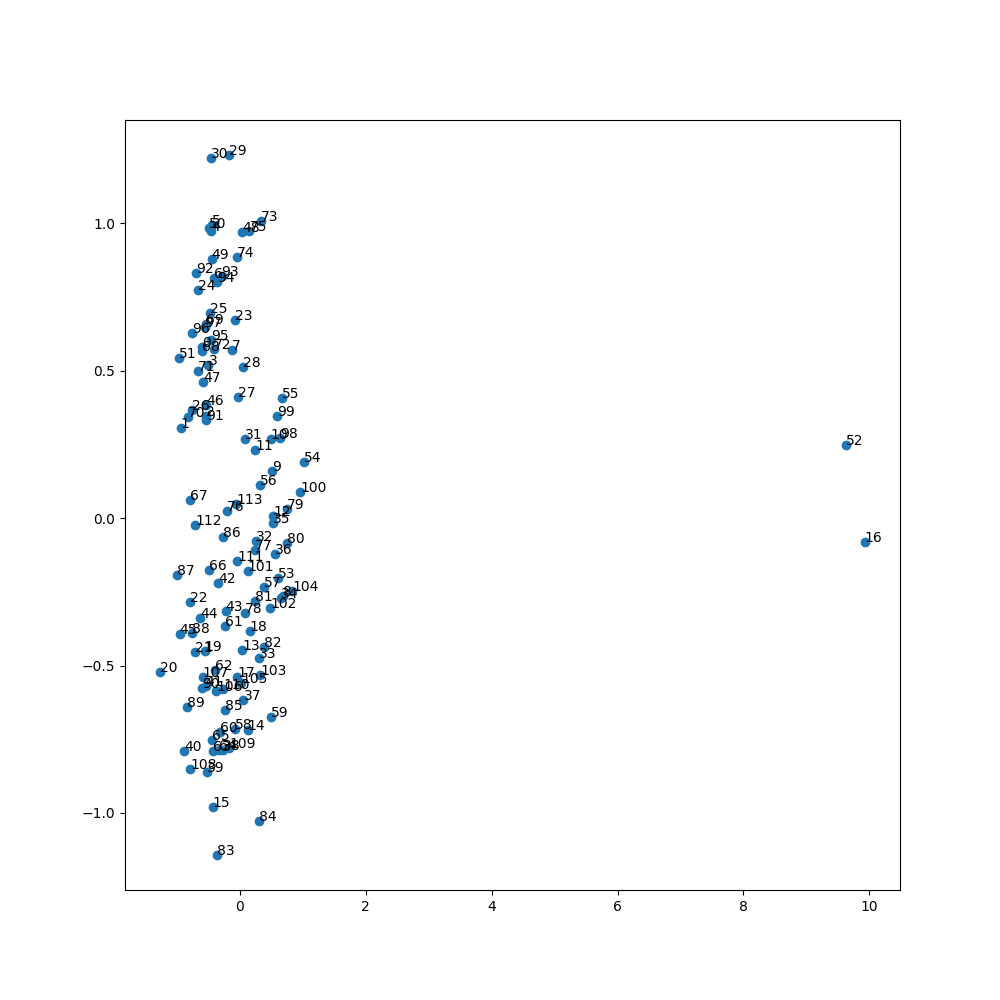
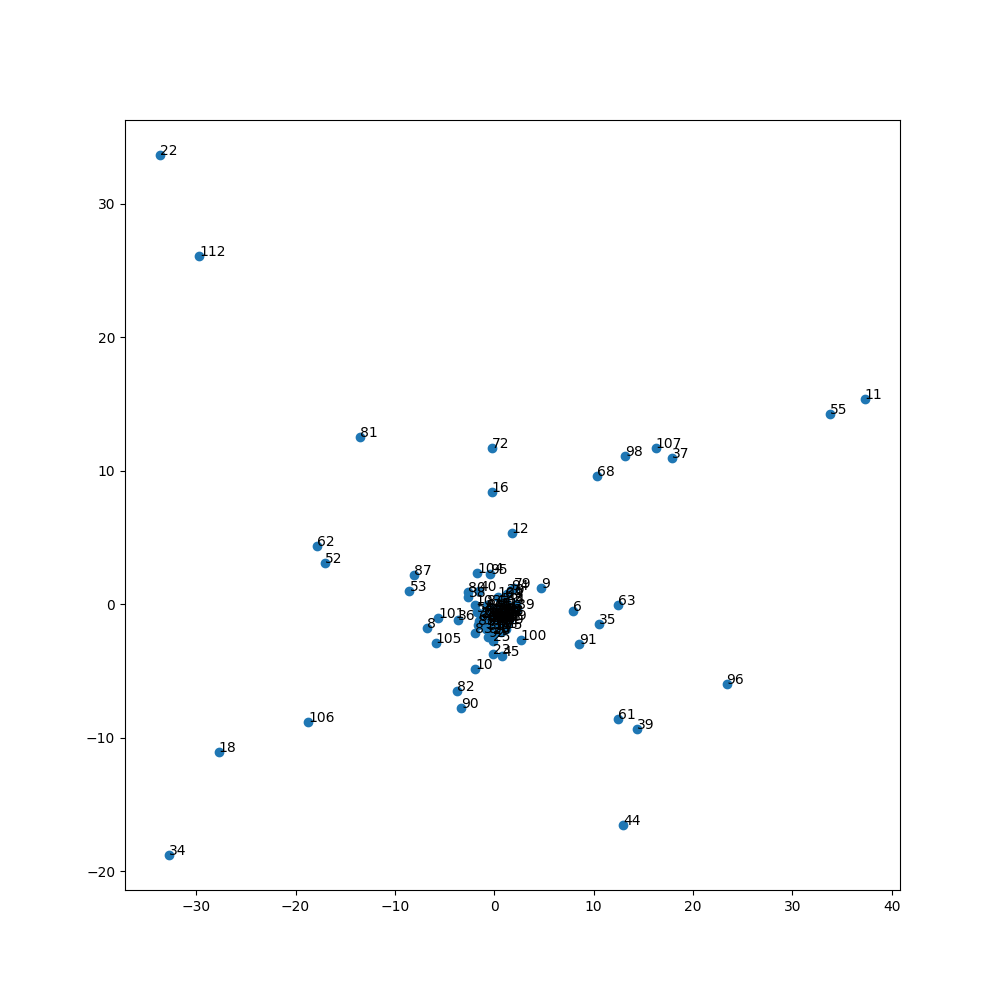
Update

diff --git a/train_in_sphere_modular_addition.py b/train_in_sphere_modular_addition.py
@@ -1,14 +1,29 @@
 import torch as t
 from torch.nn.utils import parameters_to_vector, vector_to_parameters
 from helpers import reshape_submodule_param_vector
-from mlp_modular import MLP, test_model, get_train_test_loaders, plot_embeddings, plot_embeddings_chunks
+from mlp_modular import (
+    MLP,
+    test_model,
+    get_train_test_loaders,
+    plot_embeddings,
+    plot_embeddings_chunks,
+)
 import torch as t
 from torch.autograd import grad
 from scipy.sparse.linalg import LinearOperator, eigsh
 import numpy as np
 from torch.nn.utils import parameters_to_vector, vector_to_parameters
 
-def hessian_eig(model, loss_fn, train_data_loader, num_batches=30, device="cuda", n_top_vectors=200, param_extract_fn=None):
+
+def hessian_eig(
+    model,
+    loss_fn,
+    train_data_loader,
+    num_batches=30,
+    device="cuda",
+    n_top_vectors=200,
+    param_extract_fn=None,
+):
     param_extract_fn = param_extract_fn or (lambda x: x.parameters())
     num_params = sum(p.numel() for p in param_extract_fn(model))
     subset_a, subset_b, subset_res = [], [], []
@@ -25,7 +40,7 @@ def hessian_eig(model, loss_fn, train_data_loader, num_batches=30, device="cuda"
     def compute_loss():
         output = model(subset_a, subset_b)
         return loss_fn(output, subset_res)
-    
+
     def hessian_vector_product(vector):
         model.zero_grad()
         grad_params = grad(compute_loss(), param_extract_fn(model), create_graph=True)
@@ -33,18 +48,20 @@ def hessian_eig(model, loss_fn, train_data_loader, num_batches=30, device="cuda"
         grad_vector_product = t.sum(flat_grad * vector)
         hvp = grad(grad_vector_product, param_extract_fn(model), retain_graph=True)
         return t.cat([g.contiguous().view(-1) for g in hvp])
-    
+
     def matvec(v):
         v_tensor = t.tensor(v, dtype=t.float32, device=device)
         return hessian_vector_product(v_tensor).cpu().detach().numpy()
-    
+
     linear_operator = LinearOperator((num_params, num_params), matvec=matvec)
-    eigenvalues, eigenvectors = eigsh(linear_operator, k=n_top_vectors, tol=0.1, which='LM', return_eigenvectors=True)
+    eigenvalues, eigenvectors = eigsh(
+        linear_operator, k=n_top_vectors, tol=0.1, which="LM", return_eigenvectors=True
+    )
     tot = 0
     thresholds = [0.1, 1, 2, 10]
     for e in eigenvalues:
         print("{:.2f}".format(e))
-    for threshold in thresholds:    
+    for threshold in thresholds:
         for e in eigenvalues:
             if e > threshold:
                 tot += 1
@@ -53,10 +70,20 @@ def hessian_eig(model, loss_fn, train_data_loader, num_batches=30, device="cuda"
     eigenvectors = np.transpose(eigenvectors)
     return tot, eigenvalues, eigenvectors
 
+
 def get_module_parameters(model):
     return model.parameters()
 
-def sphere_localized_loss_adjustment(model, top_eigenvectors, offset, radius = 1, lambda_sphere = 10, lambda_orth = .1, device='cuda'):
+
+def sphere_localized_loss_adjustment(
+    model,
+    top_eigenvectors,
+    offset,
+    radius=1,
+    lambda_sphere=10,
+    lambda_orth=0.1,
+    device="cuda",
+):
     """
     model: mlp
     top_eigenvectors: top eigenvectors of the Hessian on the mixed data problem [n_eigenvectors x n_params] (arranged in small-to-large order)
@@ -67,29 +94,51 @@ def sphere_localized_loss_adjustment(model, top_eigenvectors, offset, radius = 1
     """
     top_eigenvectors = t.tensor(top_eigenvectors).to(device)
     offset = offset.to(device)
-    proj_matrix = t.mm(top_eigenvectors.T, top_eigenvectors) # (n_params x n_eigenvectors) @ (n_eigenvectors x n_params) -> (n_params x n_params)
+    proj_matrix = t.mm(
+        top_eigenvectors.T, top_eigenvectors
+    )  # (n_params x n_eigenvectors) @ (n_eigenvectors x n_params) -> (n_params x n_params)
     params_vector = parameters_to_vector(model.parameters())
     params_proj = t.mv(proj_matrix, params_vector)
     offset_proj = t.mv(proj_matrix, offset)
-    r_proj_params = t.sqrt(t.norm(params_proj-offset_proj))
-    sphere_reg = lambda_sphere*(r_proj_params-radius)**2
-    orth_reg = lambda_orth*t.norm(params_vector-offset-params_proj+offset_proj)
+    r_proj_params = t.sqrt(t.norm(params_proj - offset_proj))
+    sphere_reg = lambda_sphere * (r_proj_params - radius) ** 2
+    orth_reg = lambda_orth * t.norm(params_vector - offset - params_proj + offset_proj)
     return sphere_reg, orth_reg
 
-def train_in_sphere(model, dataloader, top_eigenvectors, radius = 1, lambda_sphere = 10, lambda_orth = .1, lr = 1e-3, n_epochs = 3, device = 'cuda', lr_decay=0.999):
+
+def train_in_sphere(
+    model,
+    dataloader,
+    top_eigenvectors,
+    radius=1,
+    lambda_sphere=10,
+    lambda_orth=0.1,
+    lr=1e-3,
+    n_epochs=3,
+    device="cuda",
+    lr_decay=0.999,
+    weight_decay=0.05,
+):
     model.to(device)
     offset = parameters_to_vector(model.parameters()).detach()
-    optimizer = t.optim.SGD(get_module_parameters(model), lr=lr)
+    optimizer = t.optim.AdamW(
+        get_module_parameters(model), lr=lr, weight_decay=weight_decay
+    )
     # reshape all eigenvectors to be the same shape as the model parameters
-    top_eigenvectors = t.stack([reshape_submodule_param_vector(model, get_module_parameters, v) for v in top_eigenvectors])
+    top_eigenvectors = t.stack(
+        [
+            reshape_submodule_param_vector(model, get_module_parameters, v)
+            for v in top_eigenvectors
+        ]
+    )
     scheduler = t.optim.lr_scheduler.ExponentialLR(optimizer, gamma=lr_decay)
     loss_fn = t.nn.CrossEntropyLoss()
     # Adjust model weights to be on the sphere of high eigenvectors
     n_eigenvectors = top_eigenvectors.shape[0]
     rand_vec = t.randn(n_eigenvectors)
-    unit_sphere_vec = rand_vec @ top_eigenvectors 
+    unit_sphere_vec = rand_vec @ top_eigenvectors
     unit_sphere_vec /= t.norm(unit_sphere_vec)
-    point_on_sphere = offset.to(device) + radius*unit_sphere_vec.to(device)
+    point_on_sphere = offset.to(device) + radius * unit_sphere_vec.to(device)
     # load the point on the sphere into the model
     vector_to_parameters(point_on_sphere, model.parameters())
     model.train()
@@ -101,7 +150,15 @@ def train_in_sphere(model, dataloader, top_eigenvectors, radius = 1, lambda_sphe
         for a, b, res in dataloader:
             idx += 1
             optimizer.zero_grad()
-            sphere_reg, orth_reg = sphere_localized_loss_adjustment(model, top_eigenvectors, offset, radius, lambda_sphere, lambda_orth, device=device)
+            sphere_reg, orth_reg = sphere_localized_loss_adjustment(
+                model,
+                top_eigenvectors,
+                offset,
+                radius,
+                lambda_sphere,
+                lambda_orth,
+                device=device,
+            )
             loss_main = loss_fn(model(a.to(device), b.to(device)), res.to(device))
             tot_sphere_reg += sphere_reg.item()
             tot_orth_reg += orth_reg.item()
@@ -111,15 +168,18 @@ def train_in_sphere(model, dataloader, top_eigenvectors, radius = 1, lambda_sphe
             optimizer.step()
         scheduler.step()
         if epoch % 50 == 0:
-            print(f"Epoch {epoch}/{n_epochs}, avg_sphere_reg = {tot_sphere_reg/idx}, avg_orth_reg = {tot_orth_reg/idx}, avg_ce_loss = {tot_ce_loss/idx}")
+            print(
+                f"Epoch {epoch}/{n_epochs}, avg_sphere_reg = {tot_sphere_reg/idx}, avg_orth_reg = {tot_orth_reg/idx}, avg_ce_loss = {tot_ce_loss/idx}"
+            )
             idx = 0
             tot_sphere_reg = 0
             tot_orth_reg = 0
             tot_ce_loss = 0
     val_loss, val_acc = test_model(model, dataloader, device=device, criterion=loss_fn)
     print(f"Final validation loss: {val_loss}, final validation accuracy: {val_acc}")
-    t.save(model.state_dict(), 'modular_addition_sphere_model.pth')
+    t.save(model.state_dict(), "modular_addition_sphere_model.pth")
     return model
+
 
 def main():
     # Parameters
@@ -127,25 +187,47 @@ def main():
     EMBED_DIM = 14
     HIDDEN_DIM = 8
     CHECKPOINT_PATH = "modular_addition.ckpt"
-    N_EPOCHS = 1000
-    N_EIGENVECTORS = 2
-    RADIUS = 5
+    N_EPOCHS = 5000
+    N_EIGENVECTORS = 8
+    RADIUS = 20
     LAMBDA_SPHERE = 10
-    LAMBDA_ORTH = 2
-    LR = 0.01
-    LR_DECAY = 0.996
+    LAMBDA_ORTH = 20
+    LR = 0.02
+    LR_DECAY = 0.999
+    WEIGHT_DECAY = 0.05
     # Main code
     model = MLP(vocab_size=VOCAB_SIZE, embed_dim=EMBED_DIM, hidden_dim=HIDDEN_DIM)
     model.load_state_dict(t.load(CHECKPOINT_PATH))
     model.to(device="cuda")
     model.eval()
     loss_fn = t.nn.CrossEntropyLoss()
-    train_loader, test_loader = get_train_test_loaders(train_frac=0.4, batch_size=256, vocab_size=VOCAB_SIZE)
-    _, _, eigenvectors = hessian_eig(model, loss_fn, test_loader, device="cuda", n_top_vectors=N_EIGENVECTORS, param_extract_fn=get_module_parameters)
-    train_in_sphere(model, train_loader, eigenvectors, radius=RADIUS, lambda_sphere=LAMBDA_SPHERE, lambda_orth=LAMBDA_ORTH, lr=LR, n_epochs=N_EPOCHS, device="cuda", lr_decay=LR_DECAY)
+    train_loader, test_loader = get_train_test_loaders(
+        train_frac=0.4, batch_size=256, vocab_size=VOCAB_SIZE
+    )
+    _, _, eigenvectors = hessian_eig(
+        model,
+        loss_fn,
+        test_loader,
+        device="cuda",
+        n_top_vectors=N_EIGENVECTORS,
+        param_extract_fn=get_module_parameters,
+    )
+    train_in_sphere(
+        model,
+        train_loader,
+        eigenvectors,
+        radius=RADIUS,
+        lambda_sphere=LAMBDA_SPHERE,
+        lambda_orth=LAMBDA_ORTH,
+        lr=LR,
+        n_epochs=N_EPOCHS,
+        device="cuda",
+        lr_decay=LR_DECAY,
+        weight_decay=WEIGHT_DECAY,
+    )
     plot_embeddings(model, VOCAB_SIZE)
     plot_embeddings_chunks(model)
 
 
-if __name__ == '__main__':
+if __name__ == "__main__":
     main()
